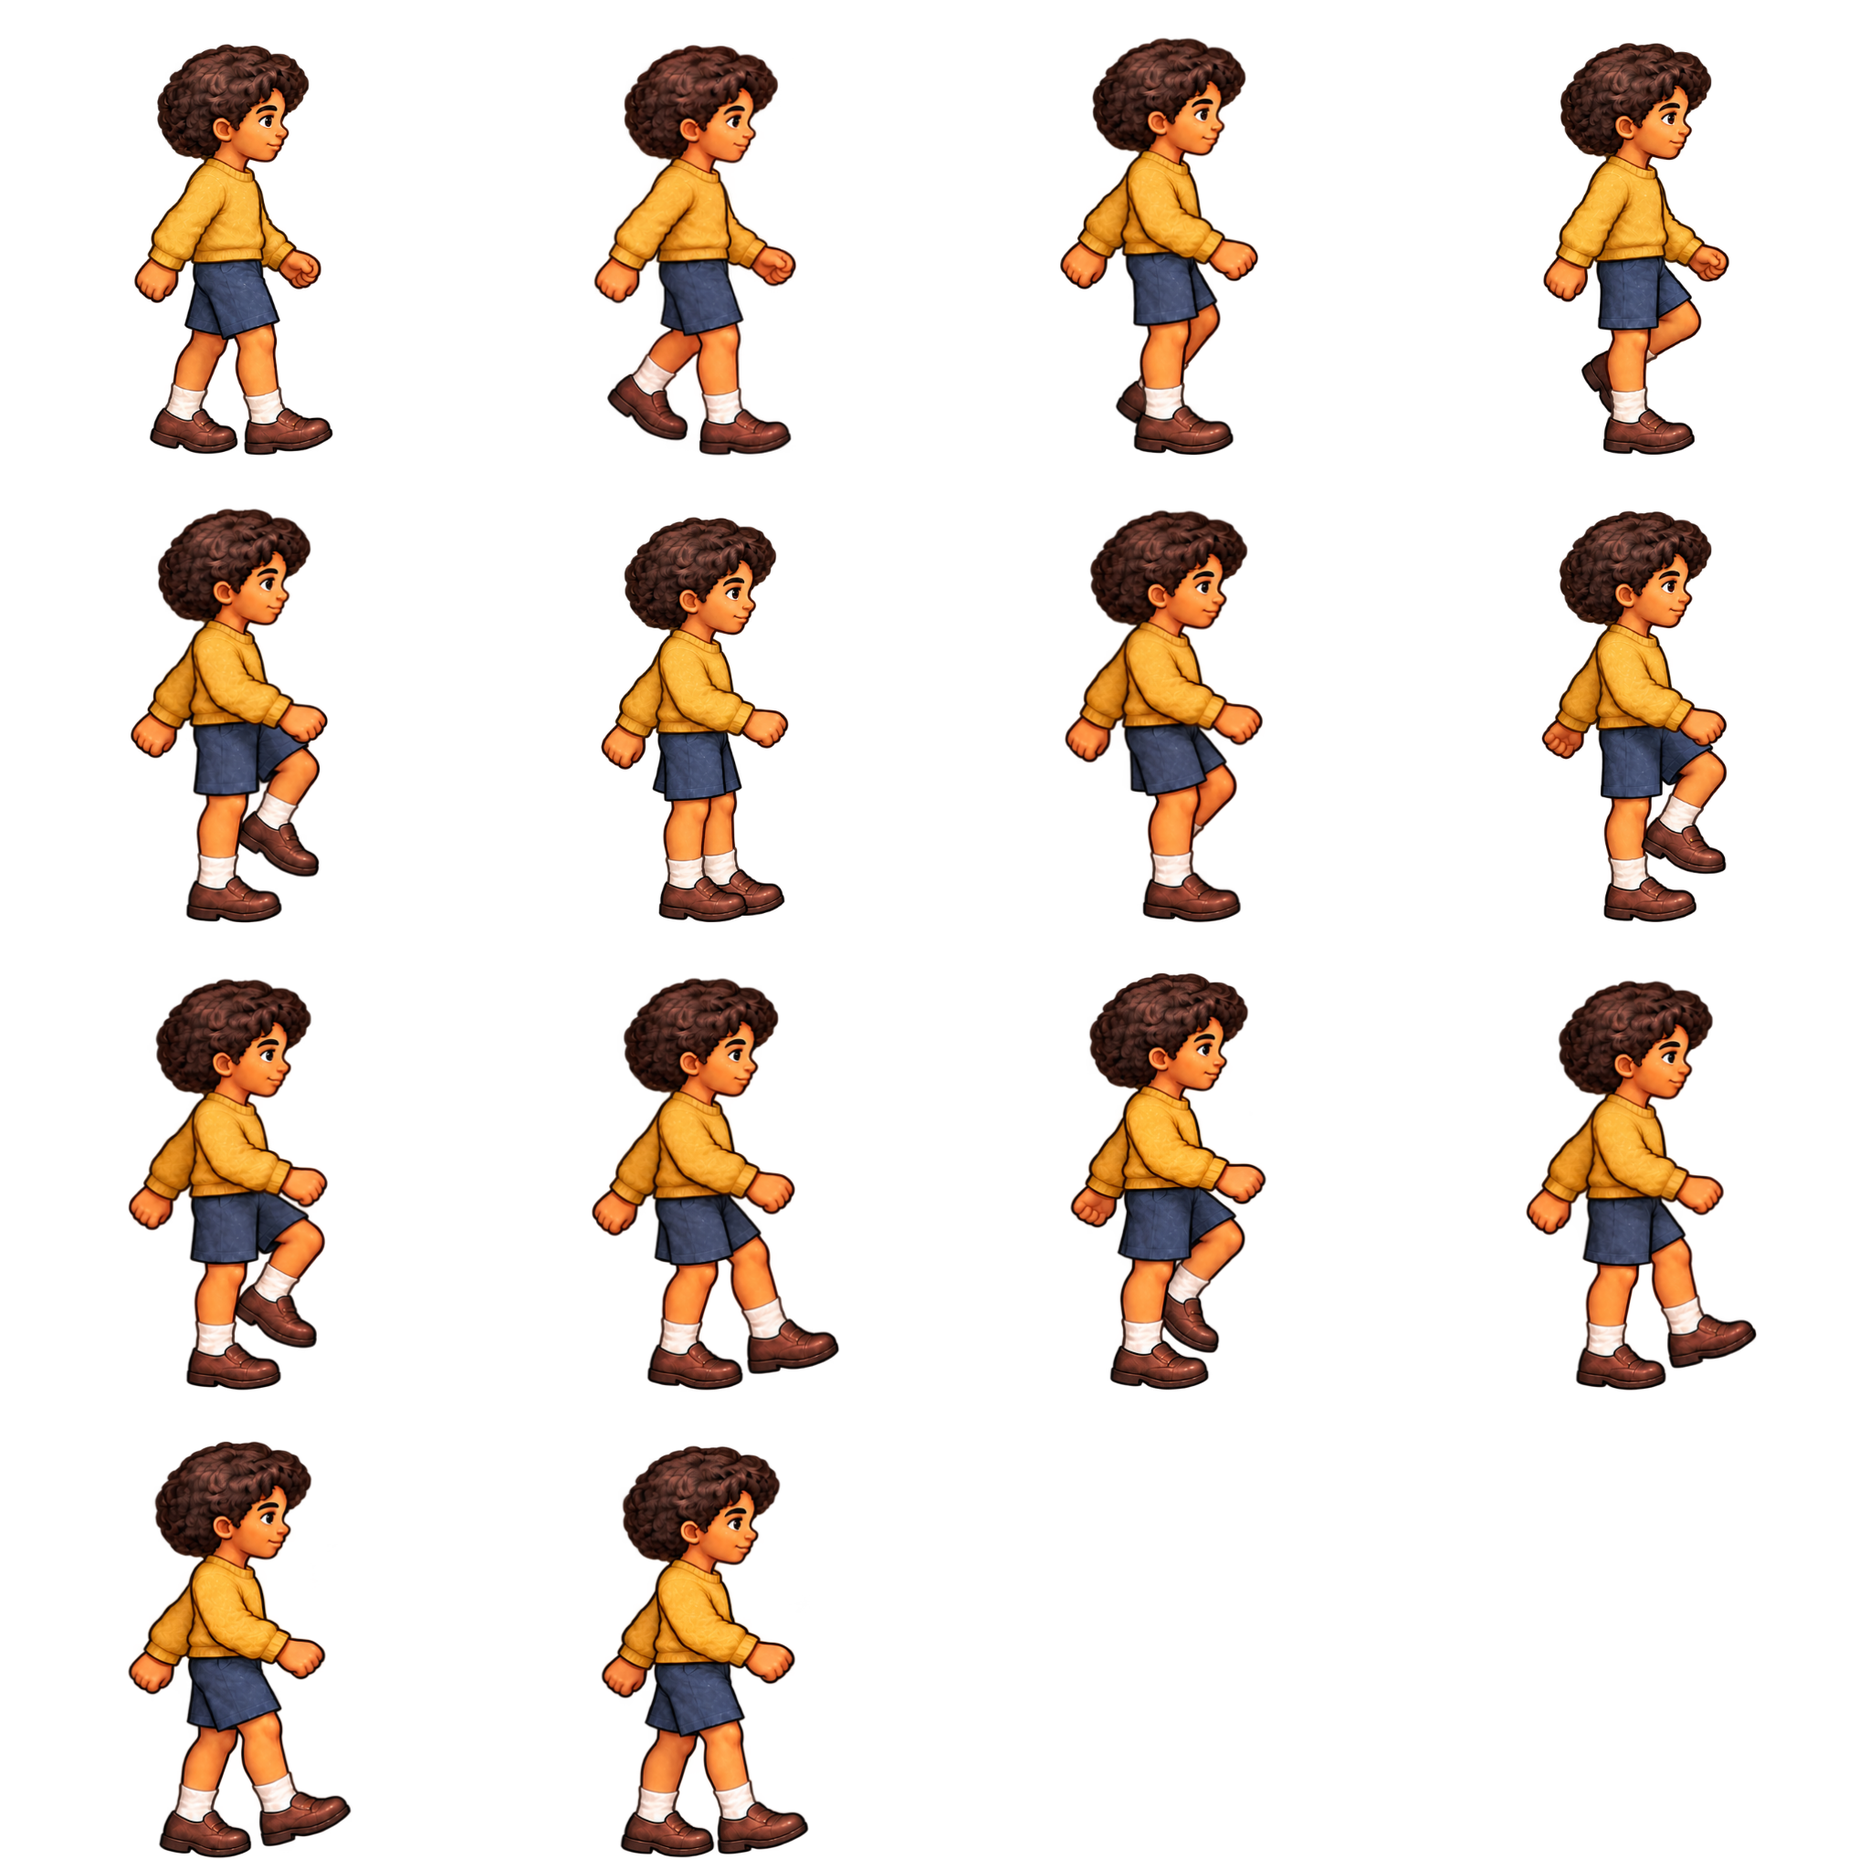
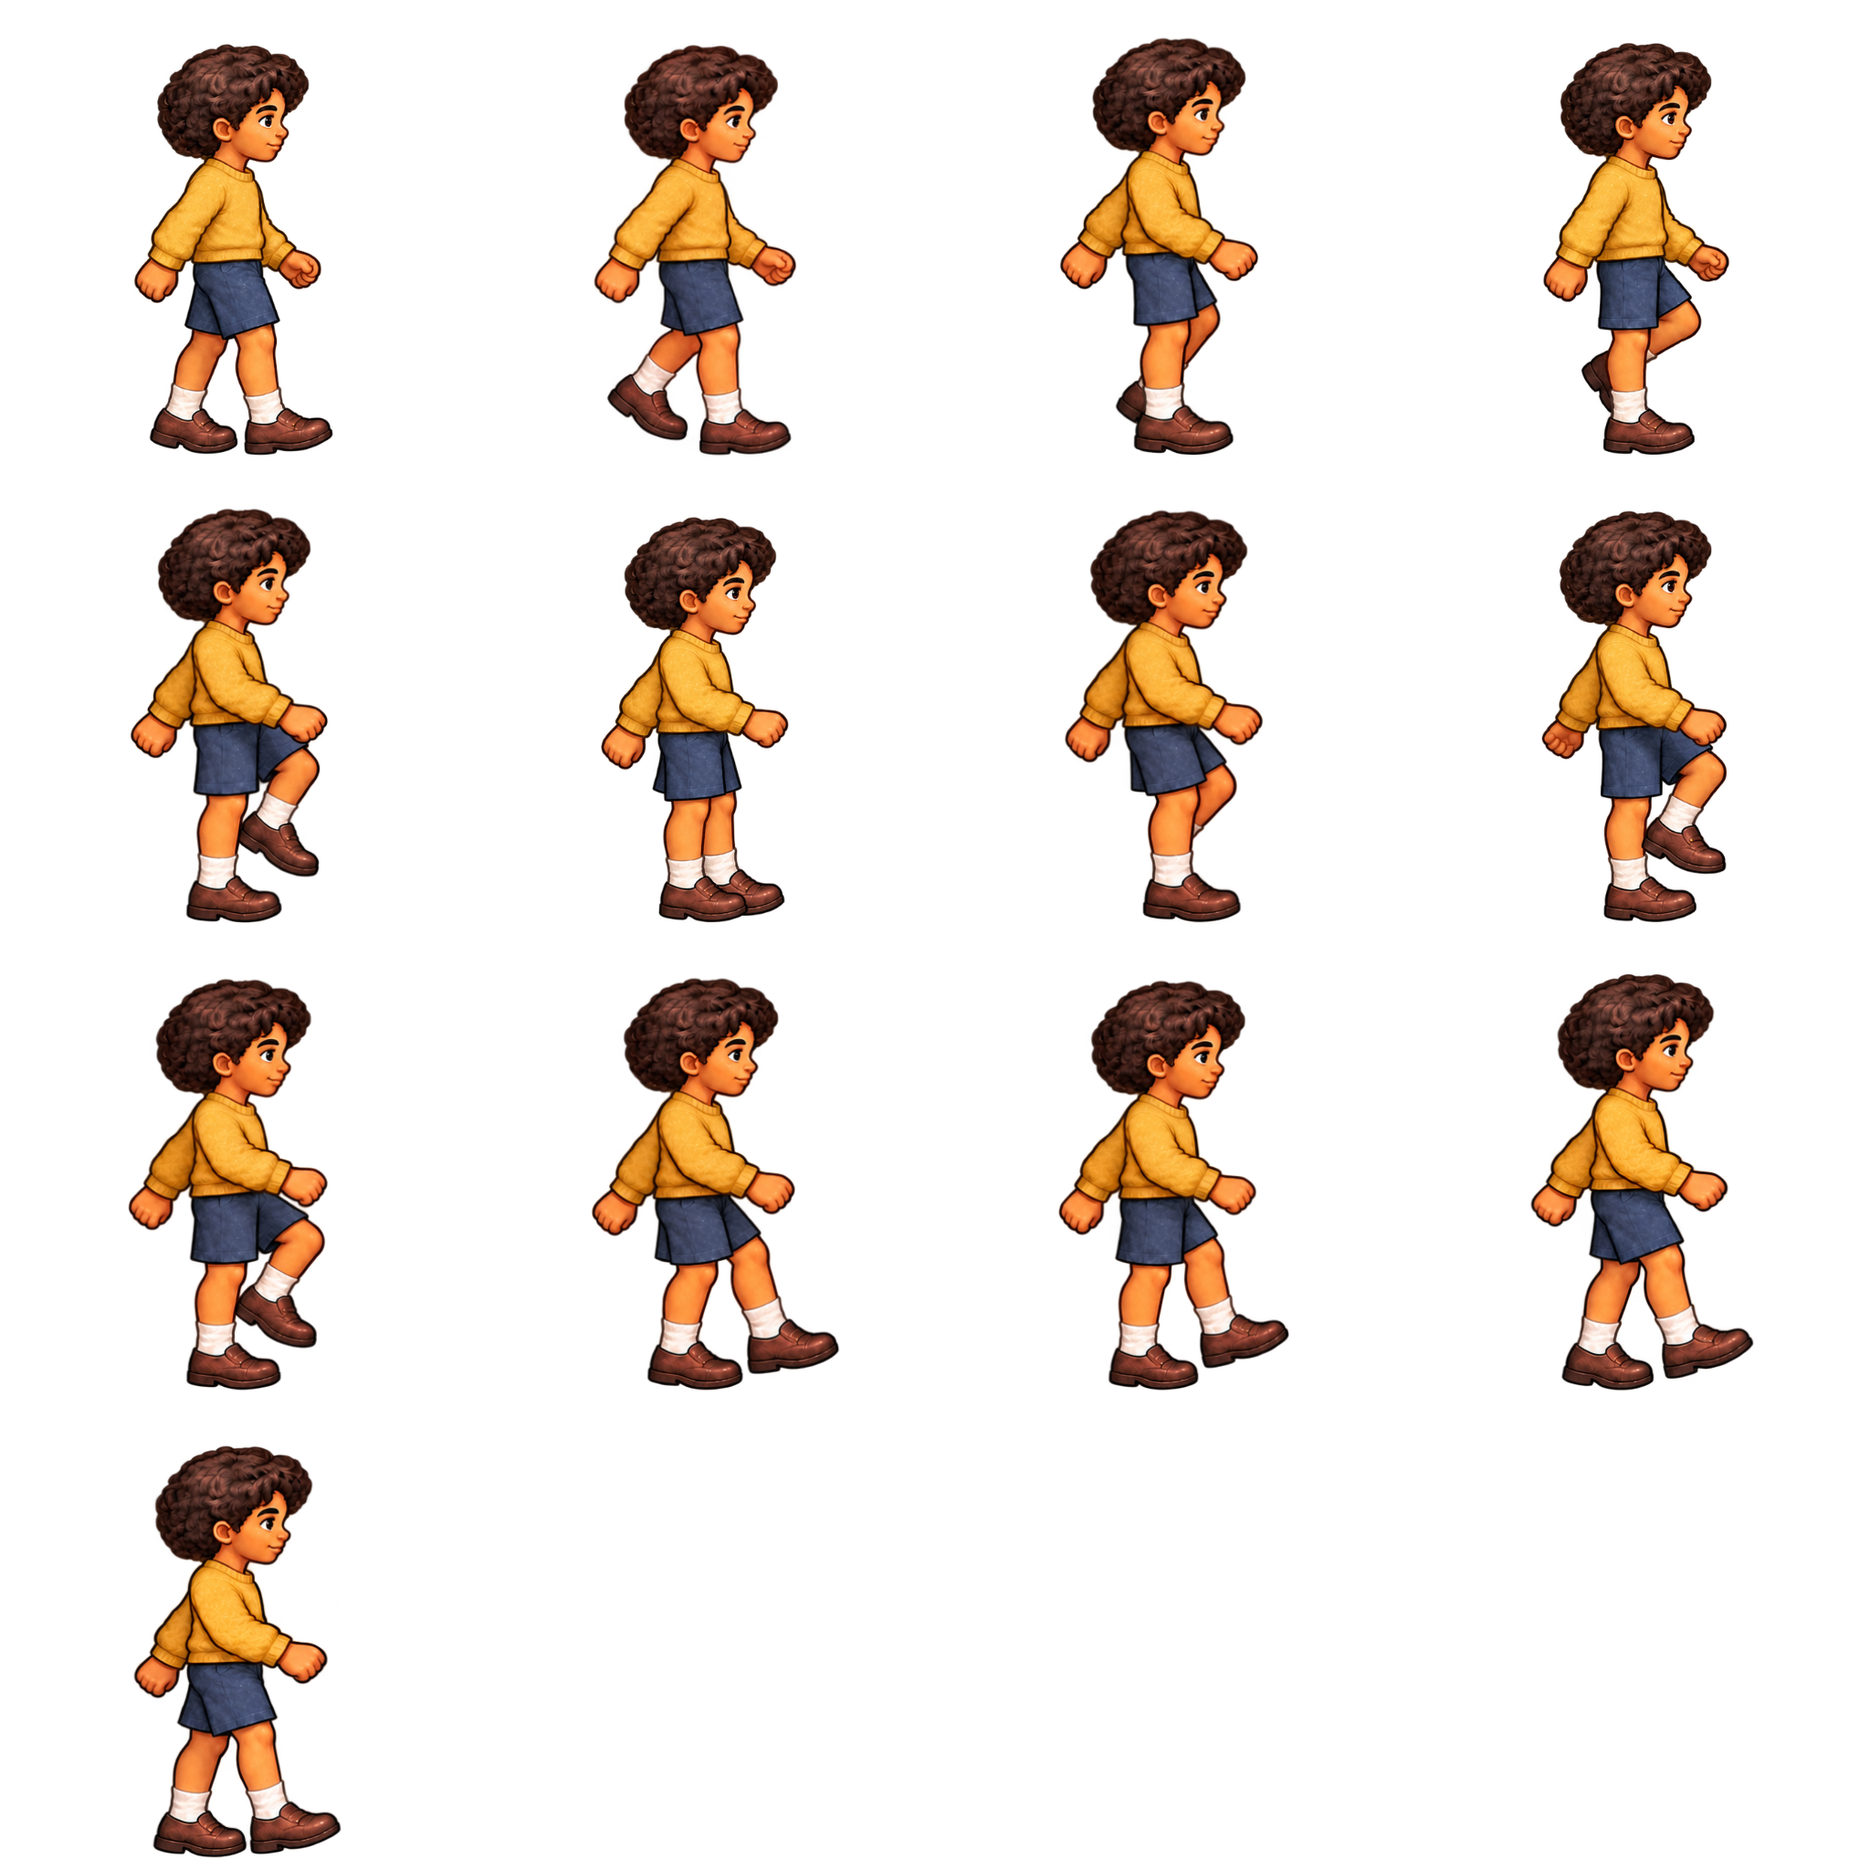
Fix yellow child's snapping walk cycle
Remove an out-of-sequence bent-leg drawing that pulled the swinging shoe backward about 17 game pixels after extension. Preserve the remaining thirteen drawings and their measured phases, giving the preceding pose enough display time for the fastest, smallest child at 60 fps.

Add real crowd playback coverage at 60 and 120 fps across walking speeds, scales, and directions, plus a browser regression that traces actual painted shoe pixels through the loop. Validation: 100 unit tests, production build, and all four walking-related production browser scenarios passed.

diff --git a/tests/browser/walking.spec.ts b/tests/browser/walking.spec.ts
@@ -82,3 +82,84 @@ test('both illustrated steps keep their supporting shoe in place at each authore
   for (const keys of result.keys) expect(new Set(keys)).toEqual(new Set(['near-contact', 'far-passing', 'far-contact', 'near-passing']));
   await fs.writeFile(testInfo.outputPath('four-key-walking-poses.png'), Buffer.from(result.sheet, 'base64'));
 });
+
+test('the yellow child swings its painted foot forward without snapping back before the loop', async ({ page }, testInfo) => {
+  await page.addInitScript(() => document.addEventListener('pond:ready', event => {
+    (window as Window & { walkingReview: PondScene }).walkingReview = (event as CustomEvent<PondScene>).detail;
+  }));
+  await page.goto('/');
+  await expect(page.locator('#loading')).toBeHidden();
+  const result = await page.evaluate(({ phases, distance }) => {
+    const scene = (window as Window & { walkingReview: PondScene }).walkingReview;
+    scene.scene.pause();
+    const model = scene.world.crowd.people[0], measurements = [];
+    const sheet = document.createElement('canvas'); sheet.width = 800; sheet.height = 440;
+    const drawing = sheet.getContext('2d')!; drawing.fillStyle = '#e3e9de'; drawing.fillRect(0, 0, 800, 440);
+    const feet = new Map<string, { x: number; y: number }[]>();
+    for (const direction of [-1, 1] as const) for (const scale of [.92, 1, 1.1]) {
+      const person = { ...model, id: 9001, age: 'kid' as const, look: 0, scale, direction,
+        x: 400, y: 760, lane: 760, stride: 0, state: 'walking' as const, stop: null, hasWatched: true };
+      scene.world.crowd.people = [person];
+      const trace = []; let passing = false;
+      for (const [index, phase] of [...phases, 1].entries()) {
+        person.stride = phase * 4; person.x = 400 + direction * distance * scale * phase;
+        scene.update(0, 0);
+        const container = scene.children.getByName('observer-9001') as Phaser.GameObjects.Container;
+        const sprite = container.getByName('observer-art') as Phaser.GameObjects.Sprite, f = sprite.frame;
+        const data = f.customData as AnimationFrameData;
+        passing ||= data.keyPose === 'near-passing';
+        if (!passing) continue;
+        if (!data.supportFoot || !data.supportLeg) throw new Error('Missing supporting shoe');
+        let centers = feet.get(String(f.name));
+        if (!centers) {
+          const c = document.createElement('canvas'); c.width = f.cutWidth; c.height = f.cutHeight;
+          const g = c.getContext('2d', { willReadFrequently: true })!;
+          g.drawImage(f.source.image as HTMLImageElement, f.cutX, f.cutY, f.cutWidth, f.cutHeight, 0, 0, c.width, c.height);
+          const pixels = g.getImageData(0, 0, c.width, c.height).data, brown = [];
+          for (let y = Math.max(0, Math.floor(f.realHeight - data.referenceHeight * .27 - f.y)); y < c.height; y++) {
+            for (let x = 0; x < c.width; x++) {
+              const n = (y * c.width + x) * 4, r = pixels[n], green = pixels[n + 1], b = pixels[n + 2];
+              if (pixels[n + 3] >= 128 && r > 25 && r < 195 && green < r * .81 && b < green * .91) brown.push({ x: f.x + x, y: f.y + y });
+            }
+          }
+          if (brown.length < 100) throw new Error('Missing painted brown shoes');
+          brown.sort((a, b) => a.x - b.x);
+          centers = [brown[Math.floor(brown.length * .15)], brown[Math.floor(brown.length * .85)]];
+          for (let iteration = 0; iteration < 24; iteration++) {
+            const groups: { x: number; y: number }[][] = [[], []];
+            for (const p of brown) {
+              const d = centers.map(q => (p.x - q.x) ** 2 + (p.y - q.y) ** 2);
+              groups[d[0] <= d[1] ? 0 : 1].push(p);
+            }
+            centers = groups.map(group => ({ x: group.reduce((sum, p) => sum + p.x, 0) / group.length,
+              y: group.reduce((sum, p) => sum + p.y, 0) / group.length }));
+          }
+          feet.set(String(f.name), centers);
+        }
+        const support = data.supportFoot;
+        const distances = centers.map(p => (p.x - support.x) ** 2 + (p.y - support.y) ** 2);
+        const supportIndex = distances[0] <= distances[1] ? 0 : 1;
+        const near = centers[data.supportLeg === 'near' ? supportIndex : 1 - supportIndex];
+        const worldX = container.x + direction * (near.x - sprite.displayOriginX) * sprite.scaleX;
+        trace.push({ frame: String(f.name), phase, forward: direction * worldX });
+        if (direction === 1 && scale === 1) {
+          const cell = trace.length - 1, x = cell % 4 * 200 + 100, baseline = Math.floor(cell / 4) * 220 + 190;
+          drawing.drawImage(f.source.image as HTMLImageElement, f.cutX, f.cutY, f.cutWidth, f.cutHeight,
+            x + (f.x - sprite.displayOriginX) * sprite.scaleX, baseline + (f.y - sprite.displayOriginY) * sprite.scaleY,
+            f.cutWidth * sprite.scaleX, f.cutHeight * sprite.scaleY);
+          drawing.fillStyle = '#344c3a'; drawing.font = '11px monospace';
+          drawing.fillText(`${index % phases.length} / ${phase.toFixed(3)}`, cell % 4 * 200 + 12, Math.floor(cell / 4) * 220 + 20);
+          drawing.fillStyle = '#ce493d'; drawing.beginPath();
+          drawing.arc(x + (near.x - sprite.displayOriginX) * sprite.scaleX,
+            baseline + (near.y - sprite.displayOriginY) * sprite.scaleY, 2, 0, Math.PI * 2); drawing.fill();
+        }
+      }
+      measurements.push({ direction, scale, trace,
+        backwards: Math.max(0, ...trace.slice(1).map((p, i) => trace[i].forward - p.forward)) });
+    }
+    return { measurements, sheet: sheet.toDataURL().split(',')[1] };
+  }, { phases: WALKING_GAIT['observer-kid-0'].phases, distance: walkingDistance('observer-kid-0', 109) });
+  await fs.writeFile(testInfo.outputPath('yellow-child-swing.png'), Buffer.from(result.sheet, 'base64'));
+  await fs.writeFile(testInfo.outputPath('yellow-child-swing.json'), JSON.stringify(result.measurements, null, 2));
+  for (const measurement of result.measurements) expect(measurement.backwards).toBeLessThan(109 * measurement.scale * .03);
+});

diff --git a/tests/observers.test.ts b/tests/observers.test.ts
@@ -39,6 +39,30 @@ test('larger visitors take longer steps and complete drawings follow distance tr
   assert.equal(observerFrame({ ...kid, state: 'watching' }), 'observer-kid-0-watch');
 });
 
+test('the yellow child visits each pose in order at display frame rates across walking speeds and sizes', () => {
+  const count = walkingFrames('observer-kid-0');
+  for (const fps of [60, 120]) for (const speed of [37, 44, 51]) for (const scale of [.92, 1, 1.1]) {
+    for (const direction of [-1, 1] as const) {
+      const crowd = new ObserverCrowd(42);
+      const person = crowd.people[0];
+      Object.assign(person, { age: 'kid', look: 0, scale, direction, speed, velocity: speed,
+        x: 600, y: 753, lane: 760, stride: .173 * 4, state: 'walking', stop: null, hasWatched: true });
+      crowd.people = [person];
+      const index = () => Number(observerFrame(person).split('-step-')[1]);
+      let last = index();
+      const seen = new Set([last]), end = person.stride + 12;
+      while (person.stride < end) {
+        crowd.step(1 / fps);
+        const frame = index();
+        if (frame !== last) assert.equal(frame, (last + 1) % count,
+          `${fps} fps, speed ${speed}, scale ${scale}, direction ${direction}: skipped after frame ${last}`);
+        seen.add(frame); last = frame;
+      }
+      assert.equal(seen.size, count);
+    }
+  }
+});
+
 test('footfall progress follows actual travel including approach depth, and stays still when stationary', () => {
   for (const direction of [-1, 1] as const) {
     const crowd = new ObserverCrowd(12);

diff --git a/src/walking-gait.ts b/src/walking-gait.ts
@@ -91,7 +91,7 @@ export const WALKING_GAIT = {
   },
   "observer-kid-0": {
     "distance": 0.345279,
-    "frames": 14,
+    "frames": 13,
     "phases": [
       0,
       0.06819559086189984,
@@ -103,7 +103,6 @@ export const WALKING_GAIT = {
       0.6641635506851575,
       0.7571443247818248,
       0.7937174889666256,
-      0.8142329513941204,
       0.8603688739233368,
       0.9412261486179129,
       0.9740679371341924

diff --git a/README.md b/README.md
@@ -80,7 +80,7 @@ Uneven arrivals keep about three visitors visible on average, usually two to fou
 
 The path has open cobblestone entrances at both image edges. Six shaded visitor designs (three adults and three kids) match the warm garden artwork, with back views for watching and grounded shadows. Adult heights are based on the existing benches, with individual size and path-depth variation.
 
-Visitors and the employee use complete illustrated walking frames, including both legs, shoes, arms, and hands. The blue-jacket adult and yellow-jumper child have a four-key gait trial with 13 and 14 full poses respectively; the remaining designs retain their eight poses. The trial has distinct contact and passing drawings for each leg, with playback timed from the supporting shoes and actual travel. Shorter steps give a quicker cadence at the existing path speeds. The adult still has a visible gap after passing and needs more painted in-betweens. The runtime changes whole PNG frames.
+Visitors and the employee use complete illustrated walking frames, including both legs, shoes, arms, and hands. The blue-jacket adult and yellow-jumper child have a four-key gait trial with 13 full poses each; the remaining designs retain their eight poses. The trial has distinct contact and passing drawings for each leg, with playback timed from the supporting shoes and actual travel. Shorter steps give a quicker cadence at the existing path speeds. The adult still has a visible gap after passing and needs more painted in-betweens. The runtime changes whole PNG frames.
 
 Animation follows actual distance covered, including approaches to the rail. Visitors brake before watching, stop while watching, and accelerate as they leave. Their route bends gently toward and away from the railing. The employee uses the same acceleration and braking, waits with both feet planted, and retains the existing reaching, lifting, pouring, and closing animations.
 

diff --git a/docs/art-review.md b/docs/art-review.md
@@ -1,5 +1,30 @@
 # Garden and fish image review
 
+## Yellow child pose order, 18 October 2026
+
+The initial 14-pose yellow-child cycle included a bent-leg drawing after the
+swinging foot had already extended. The planted shoe still progressed backward,
+so the original support-only checks accepted the order. The actual swinging shoe
+jumped backward about 17 game pixels before extending again. This occurred near
+the end of the second step, before the final-to-first loop transition.
+
+That extra drawing and its phase are removed. The remaining 13 complete drawings
+keep their measured phases, cycle distance, character appearance, and walking
+speed. The preceding pose now lasts until the next valid drawing. This also fixes
+a skipped-pose case at 60 fps for a fast, small child, where the preceding pose's
+old duration was shorter than one display frame.
+
+New regression checks step the real crowd at 60 and 120 fps across both travel
+directions, all speed bounds, and three character scales. A browser check measures
+the actual brown shoe pixels from the passing pose through the next contact,
+including the loop boundary. Both checks failed on the previous cycle.
+
+Validation: all 100 unit tests, the TypeScript/production build, and the four
+walking-related production browser scenarios passed. The measured backward shoe
+jump at height 109 fell from 17.4 to 1.65 game pixels. The updated pose sequence,
+loop preview, and desktop/phone scenes were reviewed. Other walking designs and
+the adult's known sparse transition are unchanged.
+
 ## Four-key walking trial, 18 October 2026
 
 The blue-jacket adult and yellow-jumper child now use four distinct whole-person

diff --git a/art-source/walking/README.md b/art-source/walking/README.md
@@ -12,6 +12,13 @@ shoe position. Cycle distance is the sum of the two supporting-shoe sweeps betwe
 opposite contact drawings. Do not increase cadence independently of this distance:
 shorter drawn steps produce a quicker rhythm at the same travel speed.
 
+Check the swinging foot as well as the planted shoe when selecting poses. The
+yellow child's cycle now has 13 poses: an extra bent-leg drawing was removed
+because it pulled the foot back under the body after it had already extended.
+Sorting only by the planted shoe had concealed that reversal. Retain the measured
+phases of the valid drawings so the preceding pose receives the removed pose's
+time, instead of shortening the overall cycle.
+
 Run `node scripts/build-walking-atlas.mjs` from the project root to uniformly
 scale each complete cycle to 300 pixels tall, write the shipping PNGs in
 `public/art`, and rebuild the atlas and `src/walking-gait.ts`. This requires the
